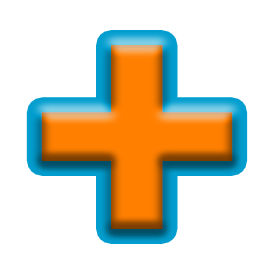
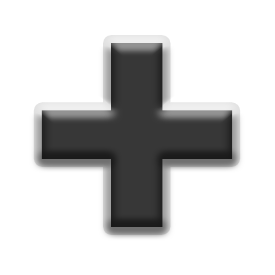
Debugged hover effect still showing over selected character

diff --git a/css/style.css b/css/style.css
@@ -43,12 +43,12 @@ body {
     font-size: 130px;
     white-space: nowrap;
     margin-top: 10vh;
-    background: -webkit-linear-gradient(#fce149, #ff5820);
+    background: -webkit-linear-gradient(#ff3d3d, #000000);
     -webkit-background-clip: text;
     background-clip: none; /*inserted only to remove error*/
     -webkit-text-fill-color: transparent;
     -webkit-text-stroke-width: 5px;
-    -webkit-text-stroke-color: #029ecf;
+    -webkit-text-stroke-color: #d8d8d8;
     transform: scale(.8, 1);
 }
 #start-button {
@@ -59,15 +59,16 @@ body {
     width: 180px;
     height: 60px;
     border-width: 1.5px;
-    color: #764700;
-    border-color: #029ecf;
+    color: #000000;
+    border-color: #d8d8d8;
     border-width: 4px;
     font-weight: bold;
     border-radius: 35px;
-    background: linear-gradient(#ffec64, #ff8223);
+    background: linear-gradient(#e5e5e5, #4b4b4b);
 }
 #start-button:hover {
-    background: linear-gradient(#ff8223, #ffec64);
+    background: linear-gradient(#ff3d3d, #000000);
+    color: #ffffff;
 }
 
 /*==========Character Select Screen==========*/
@@ -87,12 +88,12 @@ body {
     font-size: 60px;
     text-align: center;
     margin-top: 100px;
-    background: -webkit-linear-gradient(#fecd1d, #ff5820);
+    background: -webkit-linear-gradient(#ff3d3d, #1b1b1b);
     -webkit-background-clip: text;
     background-clip: none; /*inserted only to remove error*/
     -webkit-text-fill-color: transparent;
     -webkit-text-stroke-width: 2px;
-    -webkit-text-stroke-color: #029ecf;
+    -webkit-text-stroke-color: #d8d8d8;
 }
 .characters {
     display: flex;
@@ -112,8 +113,8 @@ body {
 .chosen-character {
     height: 25vh;
     width: auto;
-    filter: drop-shadow(2px 2px 5px #ff7f01) 
-    drop-shadow(-2px -2px 5px #ff7f01);
+    filter: drop-shadow(2px 2px 5px #ff3d3d)
+    drop-shadow(-2px -2px 5px #ff3d3d);
 }
 #choose-operation-text {
     font-family: 'Ceviche One';
@@ -123,12 +124,12 @@ body {
     text-align: center;
     margin-top: 50px;
     letter-spacing: 3px;
-    background: -webkit-linear-gradient(#fecd1d, #ff5820);
+    background: -webkit-linear-gradient(#ff3d3d, #1b1b1b);
     -webkit-background-clip: text;
     background-clip: none; /*inserted only to remove error*/
     -webkit-text-fill-color: transparent;
     -webkit-text-stroke-width: 2px;
-    -webkit-text-stroke-color: #029ecf;
+    -webkit-text-stroke-color: #ffffff;
     margin-bottom: 30px;
 }
 .operator-buttons {
@@ -143,14 +144,15 @@ body {
     max-height: 200px;
 }
 #chosen-operator {
-    display: flex;
     min-width: 0;
-    filter: drop-shadow(2px 2px 5px #ff7f01) 
-    drop-shadow(-2px -2px 5px #ff7f01);
+    max-height: 200px;
+    filter: drop-shadow(2px 2px 5px #ff3d3d)
+    drop-shadow(-2px -2px 5px #ff3d3d);
+    transform: none;
 }
-#male-idle:hover, #female-idle:hover, #choose-addition:hover, #choose-subtraction:hover, #choose-multiplication:hover, #choose-division:hover, #choose-all:hover {
-    filter: drop-shadow(2px 2px 5px #ff7f01) 
-    drop-shadow(-2px -2px 5px #ff7f01);
+.not-chosen-character:hover, #choose-addition:hover, #choose-subtraction:hover, #choose-multiplication:hover, #choose-division:hover, #choose-all:hover {
+    filter: drop-shadow(2px 2px 5px #ffffff) 
+    drop-shadow(-2px -2px 5px #ffffff);
 }
 #fight-button {
     margin-top: 80px;
@@ -160,15 +162,16 @@ body {
     width: 180px;
     height: 60px;
     border-width: 1.5px;
-    color: #764700;
-    border-color: #029ecf;
+    color: #000000;
+    border-color: #d8d8d8;
     border-width: 4px;
     font-weight: bold;
     border-radius: 35px;
-    background: linear-gradient(#ffec64, #ff8223);
+    background: linear-gradient(#e5e5e5, #4b4b4b);
 }
 #fight-button:hover {
-    background: linear-gradient(#ff8223, #ffec64);
+    background: linear-gradient(#ff3d3d, #000000);
+    color: #ffffff;
 }
 
 /*==========Game Screen==========*/

diff --git a/js/app.js b/js/app.js
@@ -417,6 +417,7 @@ const startSoundMute = document.querySelector("#start-sound-mute")
 const characterSelectScreen = document.querySelector(".character-select-screen")
 const maleIdle = document.querySelector("#male-idle")
 const femaleIdle = document.querySelector("#female-idle")
+const chosenCharacter = document.querySelector(".chosen-character")
 const chooseAddition = document.querySelector("#choose-addition")
 const chooseSubtraction = document.querySelector("#choose-subtraction")
 const chooseMultiplication = document.querySelector("#choose-multiplication")
@@ -508,17 +509,19 @@ menuSoundsMute.addEventListener("click", () => {
 })
 maleIdle.addEventListener("click", () => {
     pop.play()
-    femaleIdle.setAttribute("id", "female-idle")
     femaleIdle.classList.remove("chosen-character")
-    maleIdle.setAttribute("class", "chosen-character")
+    femaleIdle.classList.add("not-chosen-character")
+    maleIdle.classList.remove("class", "not-chosen-character")
+    maleIdle.classList.add("chosen-character")
     player1.character = "male"
     player2.character = "female"
 })
 femaleIdle.addEventListener("click", () => {
     pop.play()
-    maleIdle.setAttribute("id", "male-idle")
     maleIdle.classList.remove("chosen-character")
-    femaleIdle.setAttribute("class", "chosen-character")
+    maleIdle.classList.add("not-chosen-character")
+    femaleIdle.classList.remove("class", "not-chosen-character")
+    femaleIdle.classList.add("chosen-character")
     player1.character = "female"
     player2.character = "male"
 })

diff --git a/index.html b/index.html
@@ -22,8 +22,8 @@
     <div class="character-select-screen">
         <div id="choose-character-text">Choose Player 1 character:</div>
         <div class="characters">
-            <img src="assets/images/male-idle.gif" id="male-idle">
-            <img src="assets/images/female-idle.gif" id="female-idle">
+            <img src="assets/images/male-idle.gif" class="not-chosen-character" id="male-idle">
+            <img src="assets/images/female-idle.gif" class="not-chosen-character" id="female-idle">
         </div>
         <div id="choose-operation-text">Choose operation:</div>
         <div class="operator-buttons">
